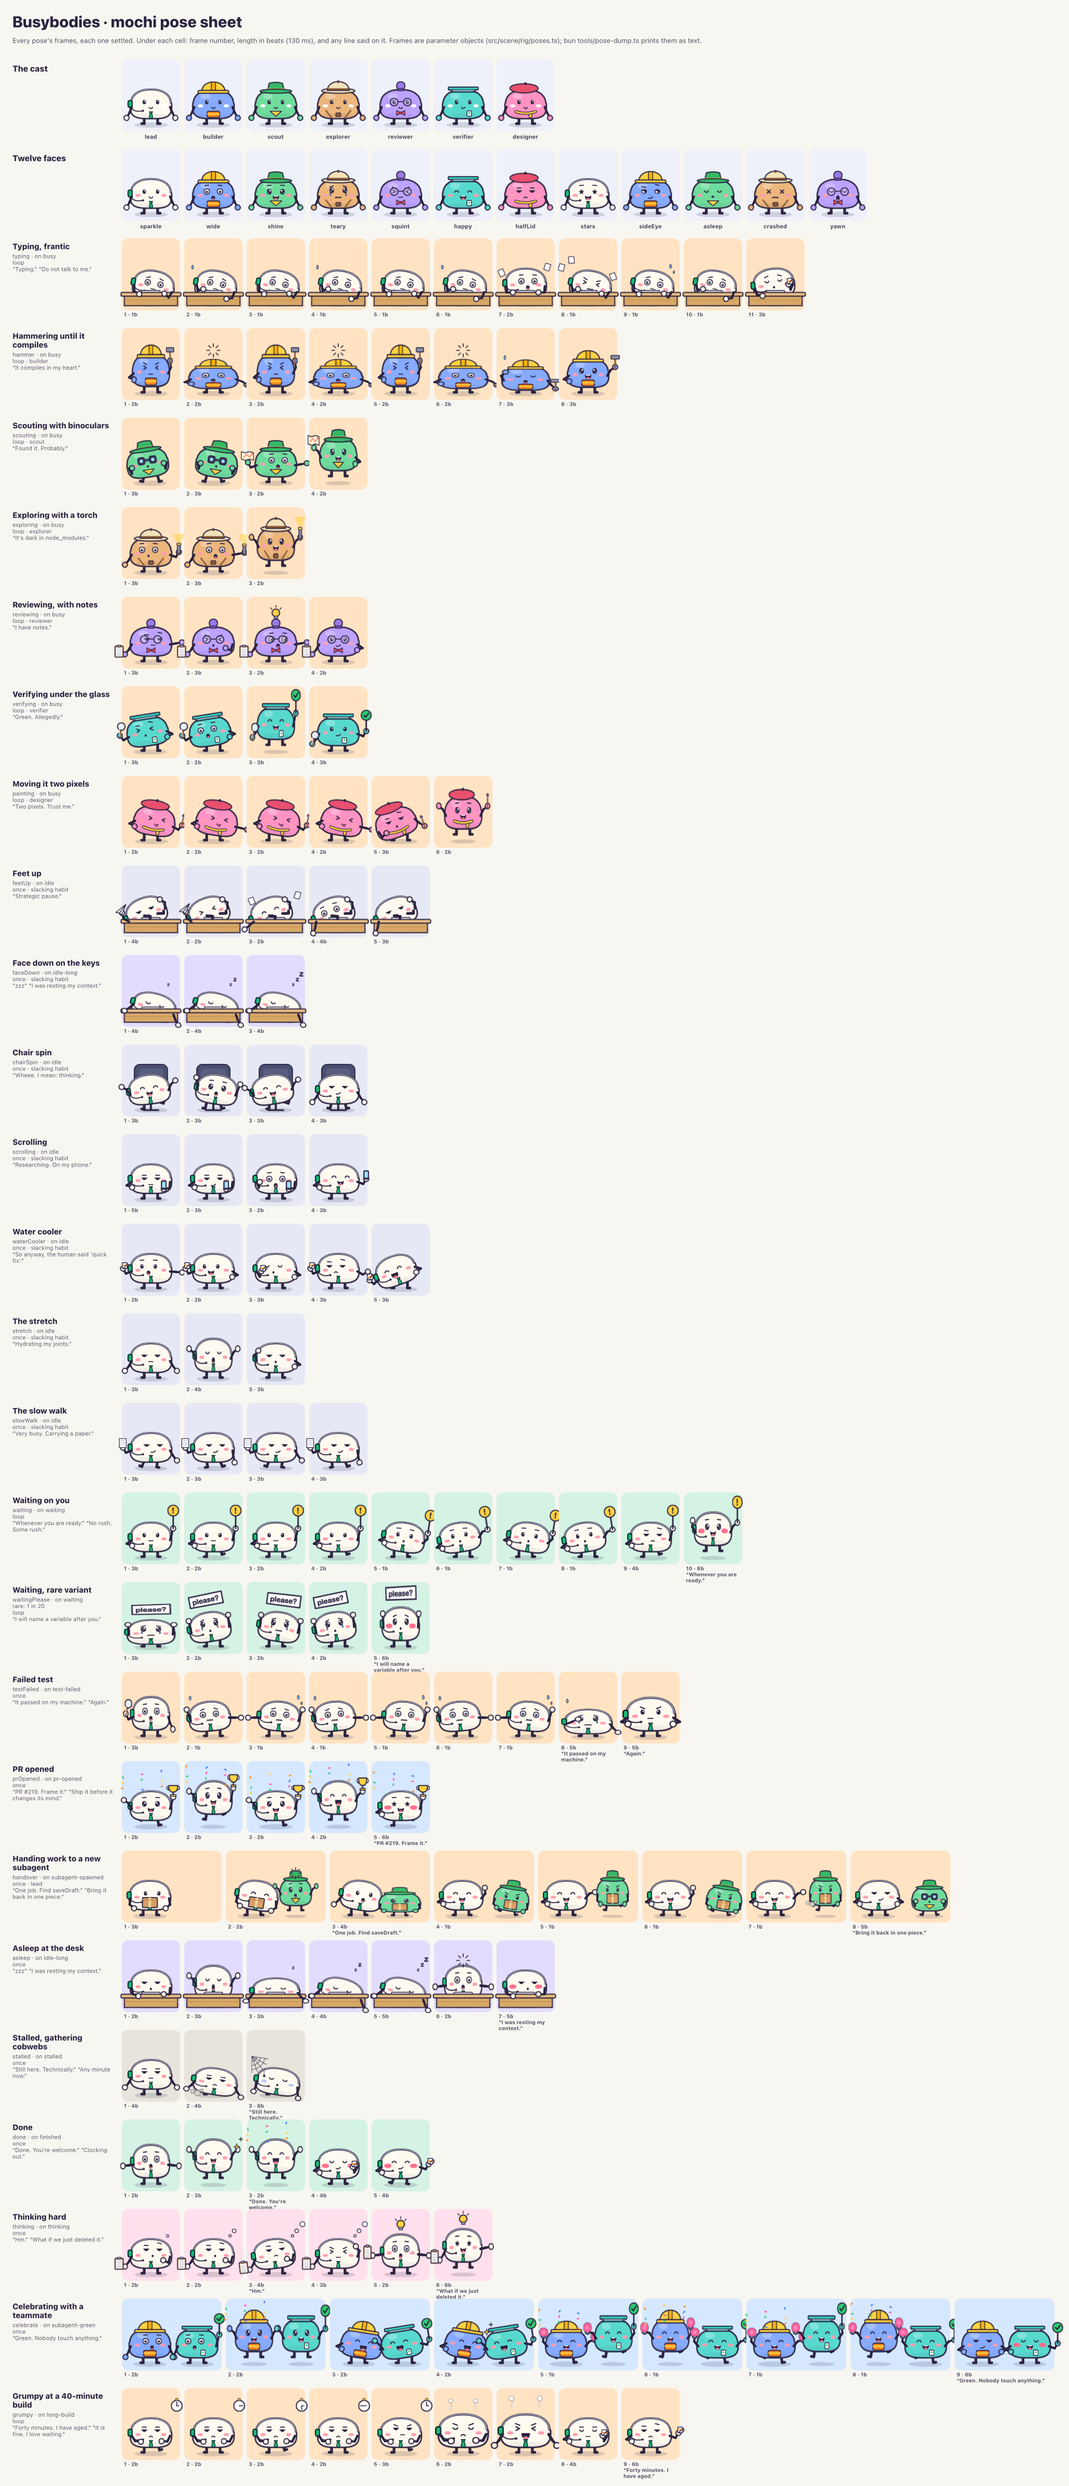
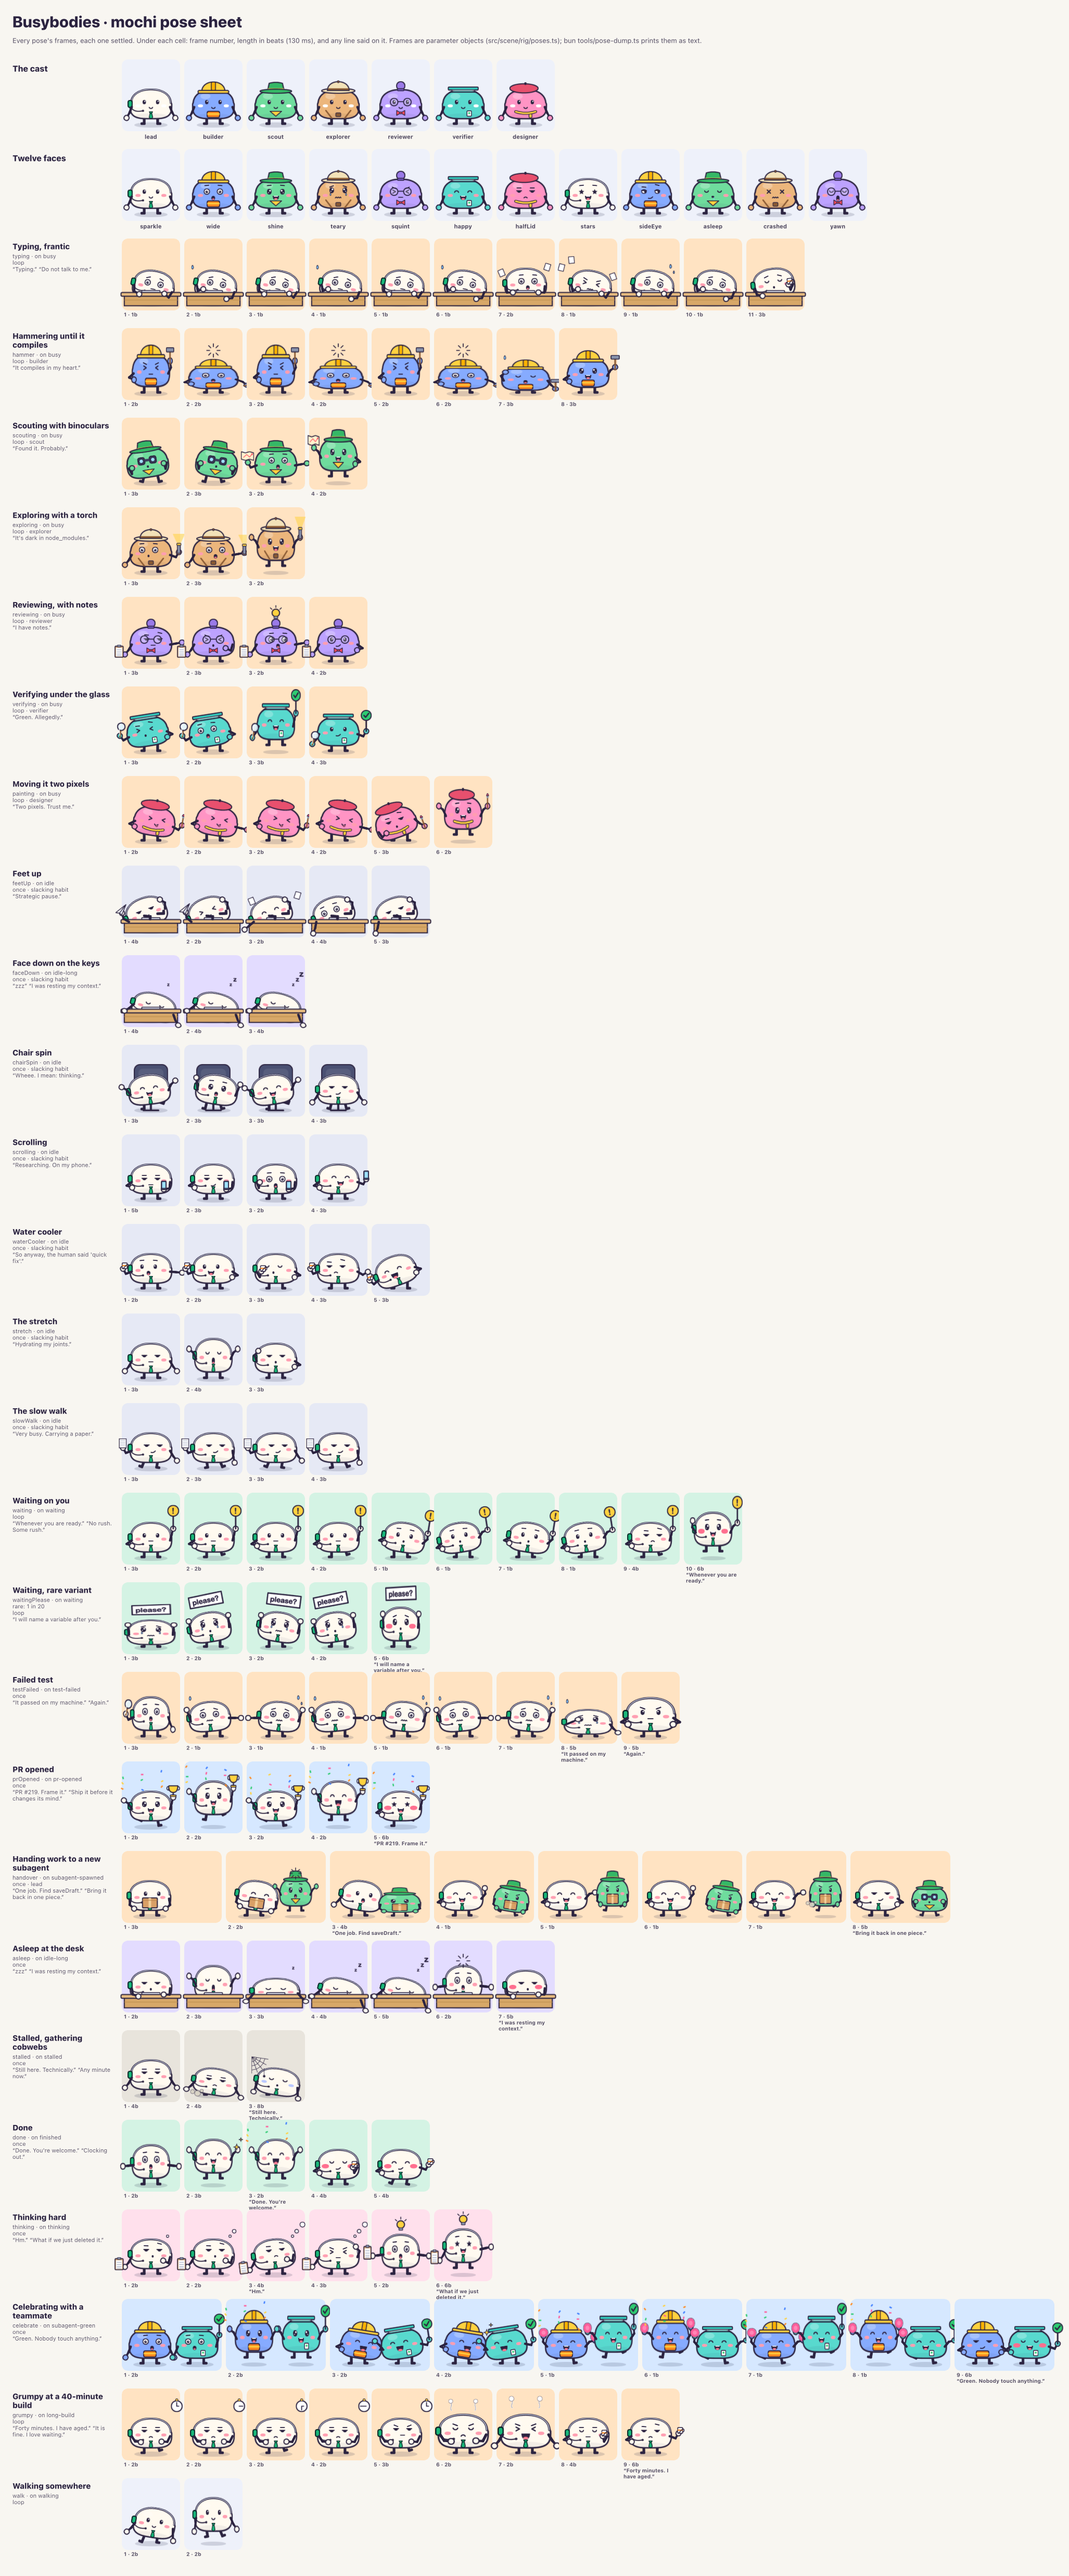
Demo-day contact sheet, pose sheet with the walk cycle, longer e2e teardown
The e2e afterAll hooks get 30 s: closing headless Chrome can take longer than
Bun's 5 s default on a loaded machine.

Changed region(s): [[0.0, 0.0312, 0.9971, 0.9987], [0.0312, 0.0, 0.0623, 0.0312]]

diff --git a/e2e/frames.test.ts b/e2e/frames.test.ts
@@ -36,7 +36,7 @@ beforeAll(async () => {
 afterAll(async () => {
 	await browser?.close();
 	server?.stop(true);
-});
+}, 30_000);
 
 async function open(query: string): Promise<Page> {
 	const page = await browser.newPage({ viewport: { width: 1280, height: 800 } });

diff --git a/e2e/rig.test.ts b/e2e/rig.test.ts
@@ -32,7 +32,7 @@ beforeAll(async () => {
 afterAll(async () => {
 	await browser?.close();
 	server?.stop(true);
-});
+}, 30_000);
 
 async function open(query: string): Promise<Page> {
 	const page = await browser.newPage({ viewport: { width: 1280, height: 800 } });

diff --git a/e2e/replay.test.ts b/e2e/replay.test.ts
@@ -32,7 +32,7 @@ beforeAll(async () => {
 afterAll(async () => {
 	await browser?.close();
 	server?.stop(true);
-});
+}, 30_000);
 
 test(
 	"plays the recorded frames in order, with times moved to now",
